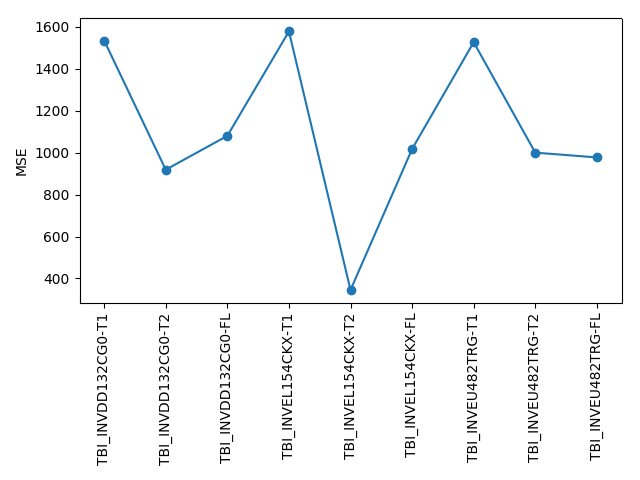
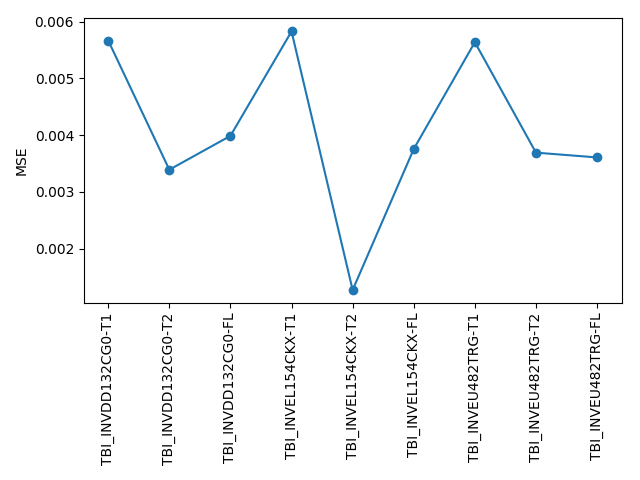
mean squared error averaged

diff --git a/src/sergul/test.py b/src/sergul/test.py
@@ -63,7 +63,7 @@ cluster.fit(all_imgs)
 reduced_images = cluster.transform(all_imgs)
 reconstructed_images = cluster.inverse_transform(reduced_images)
 
-mse = np.sum(abs(all_imgs - reconstructed_images)**2, axis=1)
+mse = np.mean(abs(all_imgs - reconstructed_images)**2, axis=1)
 
 fig = plt.figure()
 ax = fig.add_subplot(111)
